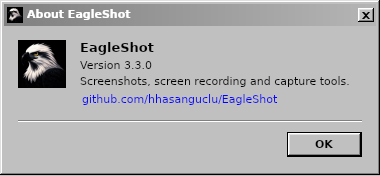
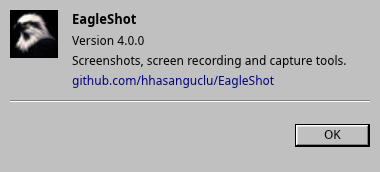
Splash, recorder, notification and About screenshots of 4.0; tighter About window
Claude-Session: https://claude.ai/code/session_01E2Bsda3nSGJjqmXSnrw8Eo

Changed region(s): [[0.0, 0.0, 1.0, 1.0]]

diff --git a/src/ui/windows.rs b/src/ui/windows.rs
@@ -261,7 +261,7 @@ impl About {
 
     pub fn show(&mut self, ctx: &egui::Context) -> bool {
         let mut open = true;
-        let b = builder(&t("About EagleShot"), vec2(380.0, 230.0), vec2(380.0, 230.0), false).with_always_on_top();
+        let b = builder(&t("About EagleShot"), vec2(380.0, 172.0), vec2(380.0, 172.0), false).with_always_on_top();
         ctx.show_viewport_immediate(self.id, b, |ui, _| {
             let ctx = ui.ctx().clone();
             let close = chrome(ui, &t("About EagleShot"), false, |ui| {
